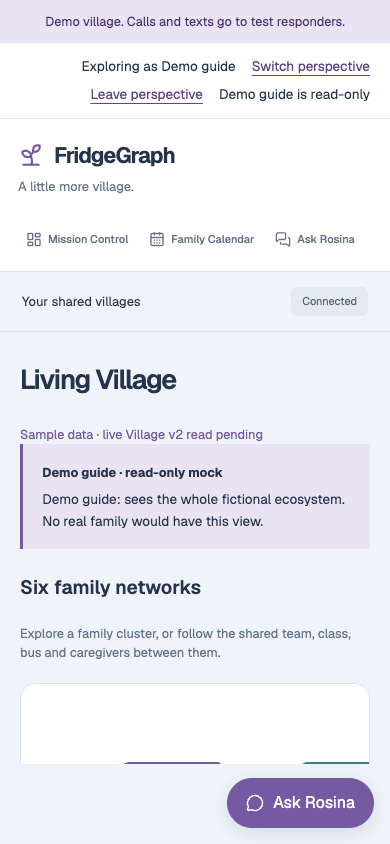
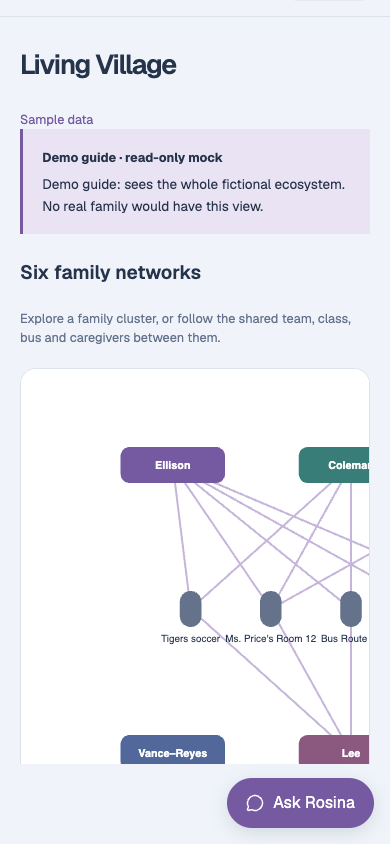
fix(web): keep sample labels clear for visitors

diff --git a/web/src/features/mission-control/LiveMissionControl.tsx b/web/src/features/mission-control/LiveMissionControl.tsx
@@ -18,7 +18,7 @@ export function LiveMissionControl({accessDenied}:{accessDenied:ReactNode}){
  {/* Live read provenance does not prove dispatch. No execution-source field is delivered. */}
  <p className="mcv-missing">These are stored demo records. Calls and texts may be simulated; sending isn’t verified here.</p>
  {session?.marks?.demoGuide&&<p className="mcv-missing">Demo guide is read-only</p>}
- {result.loading&&!data?<p role="status">Loading recorded pickup activity…</p>:result.error?/UNAUTHORIZED/.test(result.error.message)?accessDenied:<p role="alert">{dataErrorMessage(result.error)}</p>:!run?!(session?.persona.parent||session?.marks?.demoGuide)?accessDenied:<div className="mcv-empty"><h2>No recorded pickup run</h2><p>No stored pickup job is visible for this perspective. Sample scenarios remain separate.</p></div>:<>
+ {result.loading&&!data?<p role="status">Loading recorded pickup activity…</p>:result.error?/UNAUTHORIZED/.test(result.error.message)?accessDenied:<p role="alert">{dataErrorMessage(result.error)}</p>:!run?!(session?.persona.parent||session?.marks?.demoGuide)?accessDenied:<div className="mcv-empty"><h2>No recorded pickup run</h2><p>No pickup plan is recorded for this perspective. Sample scenarios remain separate.</p></div>:<>
  <label>Pickup record<select aria-label="Pickup record" value={run.job.id} onChange={e=>setSelected(e.target.value)}>{runs.map((r,i)=><option key={r.job.id} value={r.job.id}>Pickup {i+1} · {pickupStatusLabel(r.job.status)}</option>)}</select></label>
  <header className="mcv-job"><div><p>{run.timeline.length?'Stored pickup record':'Pickup record · event times not recorded'}</p><h2>{session?.scope.childName.split(' ')[0]}’s pickup</h2><p>{pickupStatusLabel(run.job.status)}</p></div></header>
  <div className="mcv-lane-grid">{run.attempts.map(a=><article key={a.id} className="mcv-lane"><h3>{a.candidate?.displayName??'Caregiver not recorded'}</h3><span className="mcv-contact">{contactBadge(a.destinationMode)}</span><p>{contactChannelLabel(a.channel)}</p><time dateTime={a.at}>{formatRecordedTime(a.at)}</time><p>{a.closedAt?'Attempt ended · see recorded activity':'Attempt open · no reply recorded'}</p>{a.closedAt&&<time dateTime={a.closedAt}>{formatRecordedTime(a.closedAt)}</time>}</article>)}</div>

diff --git a/web/src/App.tsx b/web/src/App.tsx
@@ -43,9 +43,9 @@ function SignedInVillage() {
       <Shell slots={{
         'mission-control': session.accessToken&&authMode==='live'?<LiveMissionControl accessDenied={<SharingBoundary surface="pickup"/>}/>:<><p className="persona-mock">Sample scenario · fictional replay</p><MissionControl accessDenied={<SharingBoundary surface="pickup" />} /></>,
         'ask-rosina': <section className="route-slot"><h2>Talk with Rosina</h2><p>Ask about what is shared with you. Every change needs your confirmation.</p></section>,
-        'care-information': <><p className="persona-mock">Sample data · live care read pending</p><CareInformation /></>,
-        calendar: calendar ? <><p className="persona-mock">Sample data · live calendar read pending</p><FamilyCalendar adapter={calendar} /></> : null,
-        village: <Suspense fallback={<p className="village-route-loading" role="status">Loading the village…</p>}><section className="village-route" aria-label="Living Village workspace"><p className="persona-mock">Sample data · live Village v2 read pending</p><LivingVillage /></section></Suspense>,
+        'care-information': <><p className="persona-mock">Sample data</p><CareInformation /></>,
+        calendar: calendar ? <><p className="persona-mock">Sample data</p><FamilyCalendar adapter={calendar} /></> : null,
+        village: <Suspense fallback={<p className="village-route-loading" role="status">Loading the village…</p>}><section className="village-route" aria-label="Living Village workspace"><p className="persona-mock">Sample data</p><LivingVillage /></section></Suspense>,
       }} />
       <RosinaPanel dataAdapter={adapter} />
     </DataProvider>

diff --git a/web/scripts/demo-login-visual.js b/web/scripts/demo-login-visual.js
@@ -16,6 +16,9 @@ async page=>{
  await page.getByText('No recorded pickup run',{exact:true}).waitFor();await page.waitForTimeout(120)
  const audit=await page.evaluate(()=>window.__perspectiveAudit)
  if(audit.leaks||!audit.frames)throw Error('Private pickup data survived a perspective switch frame')
+ await page.getByRole('button',{name:'Switch perspective',exact:true}).click();await page.getByRole('button',{name:'Explore as the Demo guide',exact:true}).click();await page.getByText('Exploring as Demo guide',{exact:true}).waitFor()
+ await page.locator('.village-route > .persona-mock').waitFor()
+ for(const [size,label] of [[{width:1440,height:1000},'desktop'],[{width:390,height:844},'mobile']]){await page.setViewportSize(size);await shot('demo-guide-landing-'+label)}
  const proof={passed:true,scope:'Additional visual and frame-isolation checks only; does not override the failing full directory gate',frameAudit:{pass:true,frames:audit.frames,leaks:audit.leaks},screenshots:['mission-control-timeline-desktop.png','mission-control-timeline-mobile.png']}
  await page.evaluate(async({origin,proof})=>{await fetch(origin+'/proof',{method:'POST',headers:{'Content-Type':'application/json'},body:JSON.stringify(proof)})},{origin,proof})
  return proof

diff --git a/docs/handoff/HANDOFF.md b/docs/handoff/HANDOFF.md
@@ -1926,7 +1926,7 @@ results. Full assertions remain nonzero; do not mark integrated or DONE from the
 Guide topology remains parent-only per E2e; guide goals refusal is recorded, not invented away.
 
 Two simultaneous contexts verified independent browser identities. Supplemental Kendra → Dana
-visual check sampled **35 frames, zero old pickup records**. Token-leak scans in-process PASS:
+visual check sampled **70 frames, zero old pickup records**. Token-leak scans in-process PASS:
 zero held token/current-prefix hits, zero new generic-prefix matches; existing generic matches
 inspected (redacted evidence/patterns/integrity text/binary PNG), no matching content printed.
 Coverage/filenames and exclusions are in the receipts. No credential-file reads, traces, HAR,
@@ -1968,7 +1968,7 @@ Removed the obsolete, unused ConnectedEntry browser Supabase client; all session
 through the documented endpoint. No browser Supabase imports remain in application source.
 Final after rebase/provenance correction: root staged secret scan **420 files, 0 findings**.
 The refreshed full live receipt has exactly six directory-name failures, not a weakened assertion.
-Supplementary frame audit: 35 frames / zero old pickup records. Temporary Playwright logs were
+Supplementary frame audit: 70 frames / zero old pickup records. Temporary Playwright logs were
 scanned before cleanup; screenshots and safe receipts remain in web/evidence/demo-login/.
 
 Published **DRAFT PR #32**: https://github.com/Pettybytes/fridgegraph/pull/32.

diff --git a/web/evidence/demo-login/README.md b/web/evidence/demo-login/README.md
@@ -65,7 +65,7 @@ actual read. No frontend rewrite hid the wording.
 
 Two concurrent browser contexts: A stayed Kendra while B chose Dana and switched to Andre; A's
 identity and in-memory session did not change. Additional visual run (`visual-results.json`):
-Kendra → Dana sampled 35 animation frames with zero surviving Nora pickup records. Unit tests
+Kendra → Dana sampled 70 animation frames with zero surviving Nora pickup records. Unit tests
 also check synchronous DOM/cache clearing, aborts, generation guards, late logins/renewals, and
 late GraphQL/Rosina responses. No sign-out/revoke endpoint is called.
 
